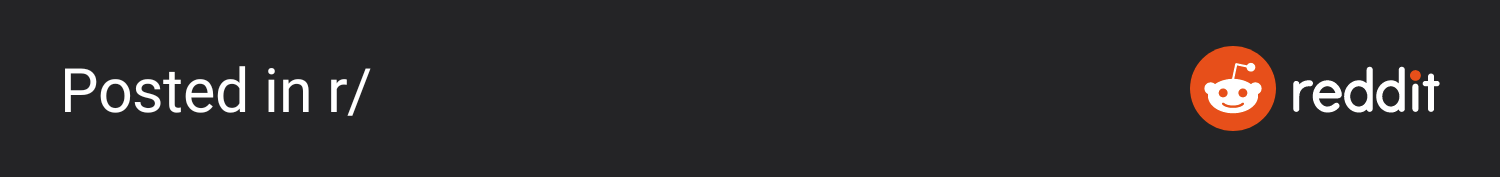
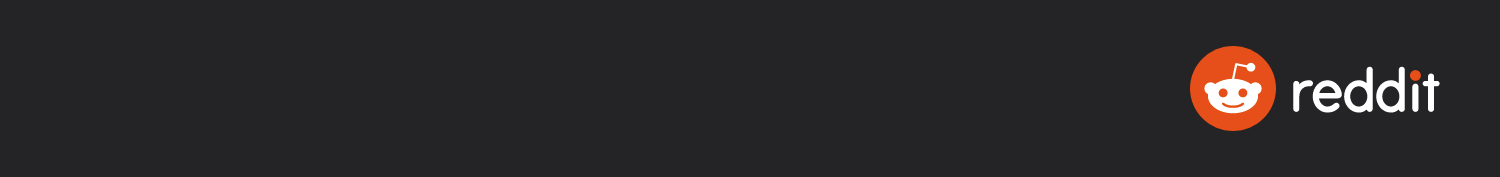
fix: Render all text in reddit
This began as an alignment fix, but I realized that it would probably be best to render all of the text here.

Changed region(s): [[0.0307, 0.3672, 0.2453, 0.6497]]

diff --git a/natives/image/reddit.cc b/natives/image/reddit.cc
@@ -26,19 +26,29 @@ CmdOutput esmb::Image::Reddit(const string &type, string &outType, const char *b
   int pageHeight = vips_image_get_page_height(in.get_image());
   int nPages = type == "avif" ? 1 : vips_image_get_n_pages(in.get_image());
 
-  string captionText = "<span foreground=\"white\">" + text + "</span>";
+  string captionText = "<span foreground=\"white\">Posted in r/" + text + "</span>";
 
   LoadFonts(basePath);
+
+  // this is a bit of a hack.
+  // to properly align the text, we need to ensure that the baseline matches;
+  // however, depending on the content, this can vary wildly if we just use the
+  // standard method of rendering text.
+  // therefore, we need to know the offset - but this info is not provided to us directly either,
+  // so we need to calculate it by rendering some other text and getting the baseline from there.
+  VImage baselineCalc = VImage::text(
+    "A", VImage::option()->set("font", "Roboto 62")->set("fontfile", (basePath + "assets/fonts/reddit.ttf").c_str()));
+  size_t baseline = baselineCalc.height() + baselineCalc.yoffset();
+
   VImage textImage =
     VImage::text(captionText.c_str(), VImage::option()
                                         ->set("rgba", true)
                                         ->set("font", "Roboto 62")
-                                        ->set("fontfile", (basePath + "assets/fonts/reddit.ttf").c_str())
-                                        ->set("align", VIPS_ALIGN_LOW));
+                                        ->set("fontfile", (basePath + "assets/fonts/reddit.ttf").c_str()));
 
   VImage composited =
     tmpl.composite2(textImage, VIPS_BLEND_MODE_OVER,
-                    VImage::option()->set("x", 375)->set("y", (tmpl.height() - textImage.height()) - 64));
+                    VImage::option()->set("x", 64)->set("y", (tmpl.height() - baseline) - 64 + textImage.yoffset()));
   VImage watermark = composited.resize((double)width / (double)composited.width());
 
   vector<VImage> img;
